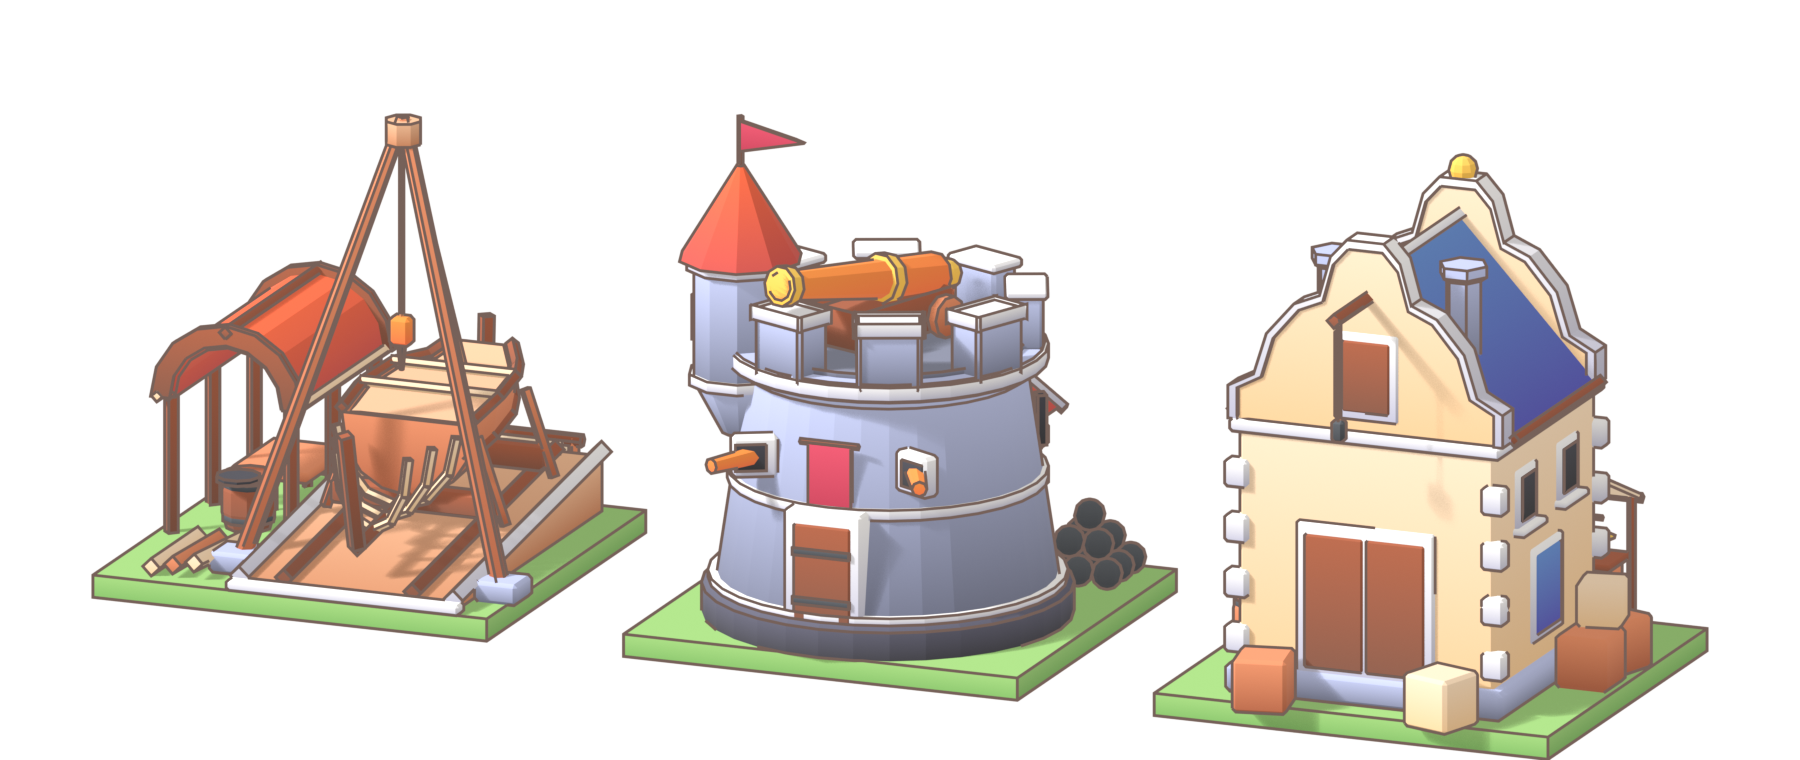
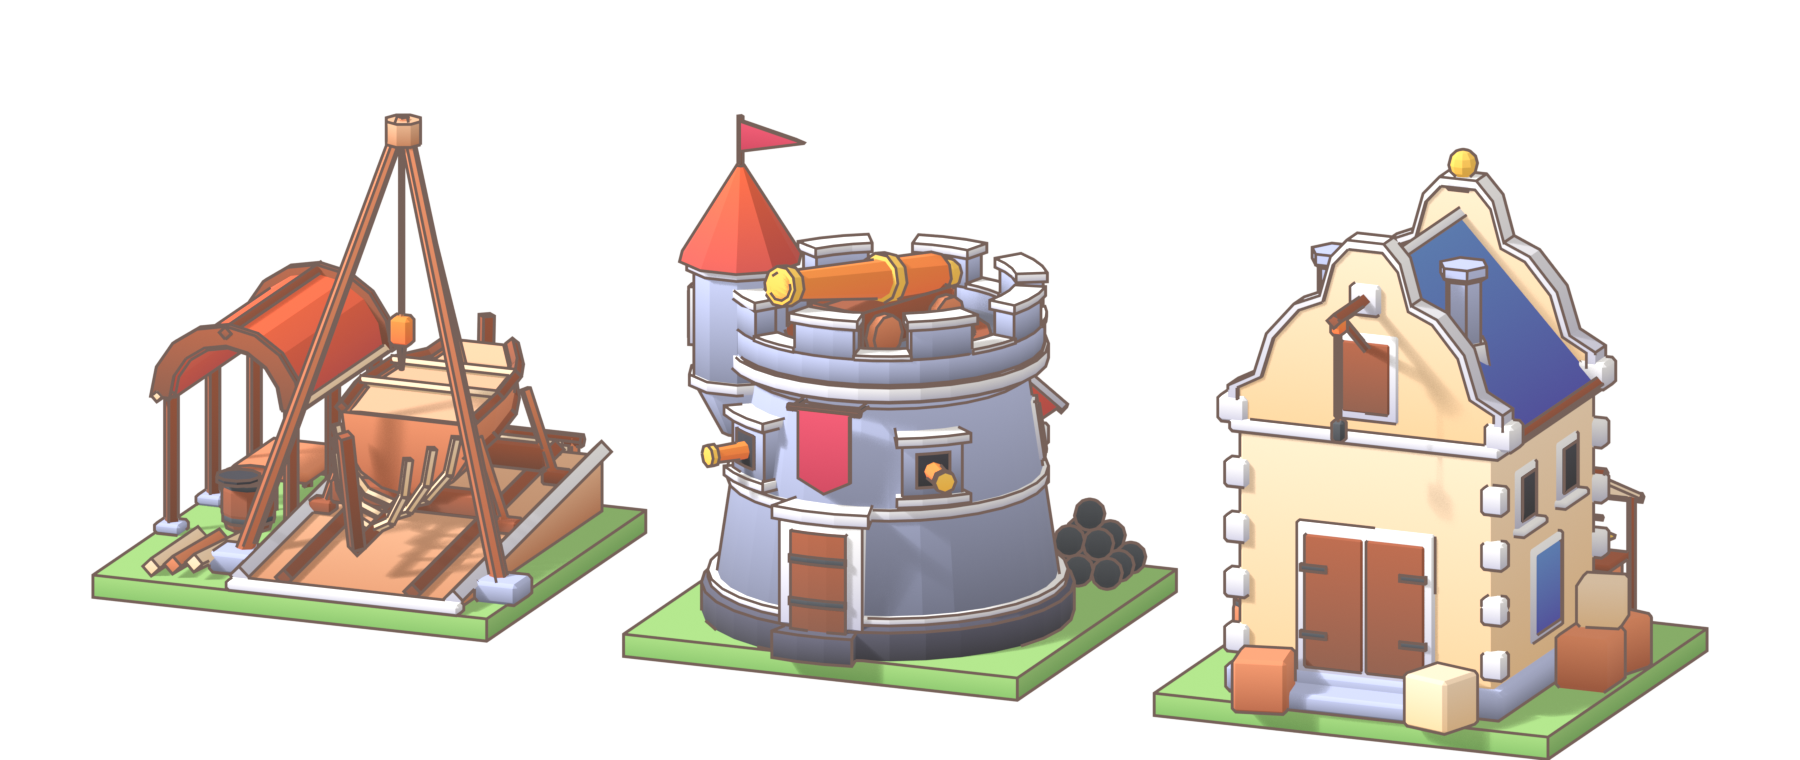
docs: rebuild the joints of the three V0.8 building blockouts so parts grow out of each other
The tower's parapet is one wall with the merlons carried up from it and an embrasure for the gun; gun ports are
casemate bays that follow the round wall, the sally port sits in a surround with a step, arrow loops and the banner
follow or hang clear of the battered wall. The tradehouse's chimneys, hoists, awning, sign and gables get collars,
seats, a ledger, pads and kneelers; the repairyard's posts, shores and back stay get pads, wedges and an anchor.

diff --git a/scripts/blender/blockout-facilities.py b/scripts/blender/blockout-facilities.py
@@ -67,6 +67,27 @@ def extrude_x(name, outline, x0, x1, mat, shade=1.0):
     return mesh_from(name, verts, faces, mat, shade)
 
 
+def arc_block(name, centre, r0, r1, a0, a1, y0, y1, mat, steps=4, shade=1.0, r0_top=None, r1_top=None):
+    """A block that follows a round wall: the solid between radii r0 and r1 (r*_top at y1, for a battered wall), from
+    angle a0 to a1 (degrees, 90 = toward +z), y0 to y1. Built into the wall rather than set against it."""
+    r0t, r1t = r0 if r0_top is None else r0_top, r1 if r1_top is None else r1_top
+    full = abs(a1 - a0) >= 360
+    count = steps if full else steps + 1
+    verts, faces = [], []
+    for k in range(count):
+        a = math.radians(a0 + (a1 - a0) * k / steps)
+        c, sn = math.cos(a), math.sin(a)
+        verts += [(centre[0] + c * r0, y0, centre[1] + sn * r0), (centre[0] + c * r1, y0, centre[1] + sn * r1), (centre[0] + c * r1t, y1, centre[1] + sn * r1t), (centre[0] + c * r0t, y1, centre[1] + sn * r0t)]
+    for k in range(steps):
+        i, j = 4 * k, 4 * ((k + 1) % count)
+        for e in range(4):
+            f = (e + 1) % 4
+            faces.append([i + e, j + e, j + f, i + f])
+    if not full:
+        faces += [[0, 1, 2, 3], [4 * steps + 3, 4 * steps + 2, 4 * steps + 1, 4 * steps]]
+    return mesh_from(name, verts, faces, mat, shade)
+
+
 def arc(cx, cy, r, a0, a1, steps):
     return [(cx + r * math.cos(math.radians(a0 + (a1 - a0) * k / steps)), cy + r * math.sin(math.radians(a0 + (a1 - a0) * k / steps))) for k in range(steps + 1)]
 
@@ -132,6 +153,7 @@ def repairyard(cx):
     for k, z in enumerate((-1.2, 0.2)):
         box(f"{n}-cradle{k}", (hx, slope(z) + 0.3, z), (1.9, 0.26, 0.24), "woodDark", bevel=0.03)
         for s in (-1, 1):
+            box(f"{n}-wedge{k}{s}", (hx + s * 1.08, slope(z) + 0.1, z), (0.26, 0.14, 0.22), "woodDark", bevel=0.02)
             beam(f"{n}-shore{k}{s}", (hx + s * 1.05, slope(z) + 0.1, z), (hx + s * 0.72, slope(z) + 1.05, z), 0.12, "wood", sides=4)
     # Trims: a pale stone curb down each edge of the slip, a dark wale along the hull, a ridge board on the shed.
     for s in (-1, 1):
@@ -145,6 +167,9 @@ def repairyard(cx):
     for s in (-1, 1):
         beam(f"{n}-leg{s}", (hx + s * 1.55, 0.0, 1.5), head, 0.2, "wood", sides=6, taper=0.7)
         box(f"{n}-foot{s}", (hx + s * 1.55, 0.12, 1.5), (0.5, 0.24, 0.5), "stone", bevel=0.04)
+    # The back stay runs to an iron ring on a stone anchor block; wedges hold the shores' feet.
+    box(f"{n}-anchor", (hx, 0.1, -2.15), (0.4, 0.2, 0.3), "stone", bevel=0.03)
+    lathe(f"{n}-anchor-ring", (hx, -2.15), [(0.1, 0.2), (0.1, 0.26)], "iron", sides=8)
     beam(f"{n}-stay", head, (hx, 0.0, -2.15), 0.06, "rope", sides=4)
     lathe(f"{n}-lash", (hx, 0.55), [(0.2, 4.72), (0.2, 4.98)], "rope", sides=8)
     beam(f"{n}-fall", (hx, 4.8, 0.6), (hx, 2.75, 0.6), 0.05, "rope", sides=4)
@@ -157,6 +182,7 @@ def repairyard(cx):
         extrude_z(f"x-{n}-rim{k}", arc(sx, 1.55, r + 0.1, 0, 180, 8) + arc(sx, 1.55, r - 0.12, 180, 0, 8), z, z + 0.1, "woodDark")
     for s in (-1, 1):
         for k, z in enumerate((-2.0, -0.8, 0.4)):
+            box(f"{n}-pad{s}{k}", (sx + s * (r - 0.08), 0.06, z), (0.3, 0.12, 0.3), "stone", bevel=0.03)
             beam(f"{n}-post{s}{k}", (sx + s * (r - 0.08), 0.0, z), (sx + s * (r - 0.08), 1.62, z), 0.16, "woodDark", sides=4)
         beam(f"{n}-plate{s}", (sx + s * (r - 0.08), 1.58, -2.1), (sx + s * (r - 0.08), 1.58, 0.5), 0.16, "wood", sides=4)
     beam(f"{n}-ridge", (sx, 1.55 + r + 0.03, -2.18), (sx, 1.55 + r + 0.03, 0.58), 0.14, "woodDark", sides=4)
@@ -181,6 +207,7 @@ def armory(cx):
     n = "arm"
     plot(n, cx)
     cz = -0.35
+    wall = lambda y: 1.86 - (y - 0.4) * 0.148  # noqa: E731  the battered wall's radius at height y
     lathe(f"{n}-plinth", (cx, cz), [(2.02, 0.0), (2.02, 0.32), (1.9, 0.42)], "basalt", sides=32)
     lathe(f"x-{n}-tower", (cx, cz), [(1.86, 0.4), (1.52, 2.7), (1.7, 2.82), (1.7, 3.02), (1.6, 3.02)], "stone", sides=32)
     lathe(f"{n}-band", (cx, cz), [(1.74, 1.5), (1.74, 1.62)], "marble", sides=32)
@@ -188,12 +215,14 @@ def armory(cx):
     # Trims: a pale cornice under the parapet and a pale rim round the gun deck.
     lathe(f"{n}-cornice", (cx, cz), [(1.74, 2.84), (1.74, 3.0)], "marble", sides=32)
     lathe(f"{n}-plinth-cap", (cx, cz), [(1.95, 0.38), (1.95, 0.46)], "marble", sides=32)
-    # Parapet with gun ports: eight merlons with light caps.
+    # Parapet: one continuous wall standing on the cornice; the merlons are the same wall carried higher (same face,
+    # same thickness), each with a pale cap; the embrasure at 110 degrees is where the gun looks out.
+    arc_block(f"x-{n}-parapet", (cx, cz), 1.44, 1.7, 0, 360, 3.0, 3.3, "stone", steps=32)
     for k in range(8):
-        a = math.radians(22.5 + 45 * k)
-        px, pz = cx + math.cos(a) * 1.5, cz + math.sin(a) * 1.5
-        box(f"{n}-merlon{k}", (px, 3.3, pz), (0.62, 0.6, 0.36), "stone", bevel=0.04, yaw=-a + math.pi / 2)
-        box(f"{n}-cap{k}", (px, 3.64, pz), (0.72, 0.1, 0.46), "marble", bevel=0.03, yaw=-a + math.pi / 2)
+        mid = 110 + 22.5 + 45 * k
+        arc_block(f"x-{n}-merlon{k}", (cx, cz), 1.44, 1.7, mid - 12, mid + 12, 3.3, 3.64, "stone", steps=3)
+        arc_block(f"x-{n}-cap{k}", (cx, cz), 1.4, 1.74, mid - 13.5, mid + 13.5, 3.64, 3.74, "marble", steps=3)
+        arc_block(f"x-{n}-sill{k}", (cx, cz), 1.42, 1.72, mid + 12, mid + 33, 3.3, 3.35, "marble", steps=3)
     # The gun: a long bronze barrel on a timber carriage, aimed out over the dock.
     aim = math.radians(200)  # toward the dock once the tower is turned round (flip_z below)
     dx, dz = math.sin(aim), math.cos(aim)
@@ -204,6 +233,7 @@ def armory(cx):
     beam(f"{n}-gun-lip", at(0.94), at(1.0), 0.44, "gold", sides=10)
     beam(f"{n}-gun-ring", at(0.3), at(0.36), 0.56, "gold", sides=10)
     ball(f"{n}-gun-knob", at(-0.08), 0.17, "gold")
+    arc_block(f"x-{n}-traverse", (cx, cz), 0.95, 1.12, 0, 360, 3.08, 3.14, "woodDark", steps=20)
     box(f"{n}-carriage", (cx + dx * 0.1, 3.36, cz + dz * 0.1), (0.7, 0.34, 1.5), "woodDark", bevel=0.05, yaw=aim)
     for s in (-1, 1):
         for k, t in enumerate((-0.45, 0.55)):
@@ -217,7 +247,9 @@ def armory(cx):
     extrude_z(f"x-{n}-door", [(cx - 0.4, 0.2), (cx + 0.4, 0.2)] + arc(cx, 1.0, 0.4, 0, 180, 6), gz + 0.76, gz + 0.84, "woodDark")
     for k, y in enumerate((0.55, 1.0)):
         box(f"{n}-strap{k}", (cx, y, gz + 0.85), (0.8, 0.09, 0.04), "iron", bevel=0.0)
+    arc_block(f"x-{n}-neck", (cx, cz), 1.5, 2.0, 62, 118, 0.3, 1.72, "stone", steps=4)
     for s in (-1, 1):
+        box(f"{n}-lamp-arm{s}", (cx + s * 0.66, 1.46, gz + 0.8), (0.08, 0.08, 0.2), "iron", bevel=0.0)
         box(f"{n}-lamp{s}", (cx + s * 0.66, 1.3, gz + 0.82), (0.16, 0.24, 0.14), "flame", bevel=0.03)
     # Gatehouse trims: a dark footing, pale corner stones, pale verges along the pediment.
     box(f"{n}-porch-foot", (cx, 0.13, gz + 0.32), (1.66, 0.26, 1.02), "basalt", bevel=0.04)
@@ -235,10 +267,11 @@ def armory(cx):
     lathe(f"{n}-turret-foot", (tx, tz), [(0.57, 2.56), (0.57, 2.68)], "marble", sides=10)
     beam(f"{n}-pole", (tx, 4.9, tz), (tx, 5.55, tz), 0.06, "woodDark", sides=4)
     extrude_z(f"{n}-pennant", [(tx, 5.5), (tx + 0.75, 5.33), (tx, 5.16)], tz - 0.02, tz + 0.02, "pennant")
-    box(f"{n}-slit", (tx - 0.5, 3.25, tz), (0.08, 0.5, 0.14), "dark", bevel=0.0)
-    for k, a in enumerate((35, 145)):
-        r = math.radians(a)
-        box(f"{n}-loop{k}", (cx + math.cos(r) * 1.7, 2.05, cz + math.sin(r) * 1.7), (0.16, 0.56, 0.1), "dark", bevel=0.0, yaw=-r + math.pi / 2)
+    arc_block(f"x-{n}-slit-frame", (tx, tz), 0.46, 0.57, 168, 192, 2.95, 3.6, "marble", steps=2)
+    arc_block(f"x-{n}-slit", (tx, tz), 0.46, 0.59, 175, 185, 3.02, 3.53, "dark", steps=1)
+    for k, a in enumerate((20, 160, 235, 305)):
+        arc_block(f"x-{n}-loop-frame{k}", (cx, cz), wall(1.75) - 0.1, wall(1.75) + 0.05, a - 4.5, a + 4.5, 1.75, 2.4, "marble", steps=1, r0_top=wall(2.4) - 0.1, r1_top=wall(2.4) + 0.05)
+        arc_block(f"x-{n}-loop{k}", (cx, cz), wall(1.82) - 0.1, wall(1.82) + 0.07, a - 1.8, a + 1.8, 1.82, 2.33, "dark", steps=1, r0_top=wall(2.33) - 0.1, r1_top=wall(2.33) + 0.07)
     # Shot and powder by the gate.
     sx, sz = cx + 1.55, cz + 2.0
     for row, (count, y) in enumerate(((3, 0.17), (2, 0.44), (1, 0.71))):
@@ -272,7 +305,14 @@ def tradehouse(cx):
     extrude_z(f"{n}-roof", [(cx - w - 0.12, base), (cx + w + 0.12, base), (cx, base + 1.72)], -0.4 - d + 0.2, -0.4 + d - 0.2, "roofBlue")
     for s in (-1, 1):
         lathe(f"x-{n}-chimney{s}", (cx + s * 0.75, -0.9), [(0.2, base + 0.5), (0.2, base + 1.55), (0.27, base + 1.6), (0.27, base + 1.72)], "stone", sides=6)
-    ball(f"{n}-finial", (cx, base + 2.22, -0.4 + d - 0.11), 0.16, "gold")
+        # Each chimney stands in a pale collar where it comes through the roof.
+        lathe(f"{n}-chimney-collar{s}", (cx + s * 0.75, -0.9), [(0.3, base + 0.62), (0.26, base + 0.86)], "marble", sides=6)
+    # The gables stand on kneeler stones at their feet, and the finial on a small pedestal on the peak.
+    for z in (-0.4 + d - 0.11, -0.4 - d + 0.11):
+        for s in (-1, 1):
+            box(f"{n}-kneeler{s}{z:.2f}", (cx + s * (w + 0.06), base + 0.1, z), (0.34, 0.3, 0.34), "marble", bevel=0.04)
+    box(f"{n}-finial-seat", (cx, base + 2.08, -0.4 + d - 0.11), (0.3, 0.14, 0.3), "marble", bevel=0.03)
+    ball(f"{n}-finial", (cx, base + 2.28, -0.4 + d - 0.11), 0.16, "gold")
     # Trims: corner stones at the back corners too, a pale ridge, dark eaves boards, framed windows on both flanks.
     for s in (-1, 1):
         for k in range(4):
@@ -287,6 +327,9 @@ def tradehouse(cx):
     beam(f"{n}-ridge", (cx, base + 1.74, -0.4 - d + 0.2), (cx, base + 1.74, -0.4 + d - 0.2), 0.16, "marble", sides=4)
     # Hoist beam at the gable's head with a crate on the hook: what a merchant's house is for.
     fz = -0.4 + d
+    # The hoist beam comes out through a pale stone seat in the gable, with a brass sheave at its end.
+    box(f"{n}-hoist-seat", (cx, base + 1.5, fz + 0.02), (0.34, 0.34, 0.14), "marble", bevel=0.03)
+    box(f"{n}-hoist-sheave", (cx, base + 1.42, fz + 0.8), (0.14, 0.2, 0.2), "brass", bevel=0.03)
     beam(f"{n}-hoist", (cx, base + 1.5, fz - 0.3), (cx, base + 1.5, fz + 0.95), 0.16, "woodDark", sides=4)
     beam(f"{n}-hoist-brace", (cx, base + 0.95, fz + 0.02), (cx, base + 1.45, fz + 0.7), 0.1, "woodDark", sides=4)
     beam(f"{n}-hoist-rope", (cx, base + 1.45, fz + 0.8), (cx, 2.5, fz + 0.8), 0.05, "rope", sides=4)
@@ -305,7 +348,10 @@ def tradehouse(cx):
         x0 = cx - w - 0.1 + k * (2 * w + 0.2) / 6
         x1 = x0 + (2 * w + 0.2) / 6
         mesh_from(f"x-{n}-awning{k}", [(x0, 1.95, fz + 0.02), (x1, 1.95, fz + 0.02), (x1, 1.5, fz + 1.05), (x0, 1.5, fz + 1.05), (x0, 1.89, fz + 0.02), (x1, 1.89, fz + 0.02), (x1, 1.44, fz + 1.05), (x0, 1.44, fz + 1.05)], [[0, 1, 2, 3], [7, 6, 5, 4], [0, 4, 5, 1], [1, 5, 6, 2], [2, 6, 7, 3], [3, 7, 4, 0]], "roofGold" if k % 2 == 0 else "canvas")
+    # The awning hangs from a ledger fixed to the wall; its poles stand on stone pads.
+    beam(f"{n}-awning-ledger", (cx - w - 0.1, 1.98, fz + 0.06), (cx + w + 0.1, 1.98, fz + 0.06), 0.12, "woodDark", sides=4)
     for s in (-1, 1):
+        box(f"{n}-awning-pad{s}", (cx + s * (w + 0.02), 0.07, fz + 1.0), (0.26, 0.14, 0.26), "stone", bevel=0.03)
         beam(f"{n}-awning-pole{s}", (cx + s * (w + 0.02), 0.0, fz + 1.0), (cx + s * (w + 0.02), 1.48, fz + 1.0), 0.09, "woodDark", sides=4)
     beam(f"{n}-valance", (cx - w - 0.12, 1.45, fz + 1.06), (cx + w + 0.12, 1.45, fz + 1.06), 0.1, "woodDark", sides=4)
     # Goods out front: crates, spice sacks, cloth, and the scales on the counter.
@@ -325,6 +371,10 @@ def tradehouse(cx):
     barrel(f"{n}-cask0", (cx - 1.95, 0.0, -0.1), "wood")
     barrel(f"{n}-cask1", (cx - 1.95, 0.0, 0.6), "wood")
     # Hanging sign: a gold coin on an iron bracket at the corner.
+    box(f"{n}-bracket-plate", (cx - w - 0.03, 2.62, fz + 0.05), (0.06, 0.5, 0.2), "iron", bevel=0.0)
+    beam(f"{n}-bracket-stay", (cx - w, 2.42, fz + 0.05), (cx - w - 0.55, 2.74, fz + 0.05), 0.05, "iron", sides=4)
+    for dx in (-0.36, -0.64):
+        beam(f"{n}-sign-chain{dx}", (cx - w + dx, 2.74, fz + 0.05), (cx - w + dx, 2.56, fz + 0.05), 0.04, "iron", sides=4)
     beam(f"{n}-bracket", (cx - w, 2.75, fz + 0.05), (cx - w - 0.75, 2.75, fz + 0.05), 0.07, "iron", sides=4)
     beam(f"{n}-sign", (cx - w - 0.5, 2.3, fz), (cx - w - 0.5, 2.3, fz + 0.1), 0.6, "gold", sides=12)
     beam(f"{n}-sign-rim", (cx - w - 0.5, 2.3, fz - 0.02), (cx - w - 0.5, 2.3, fz + 0.01), 0.7, "woodDark", sides=12)
@@ -348,21 +398,44 @@ def flip_z(prefix, cx):
 def dock_side(cx):
     """What the dock side shows once the tower and the house are turned round: the armory's sally port and the
     tradehouse's cargo doors with a second hoist."""
-    box("arm-port-frame", (cx, 0.95, 2.1), (0.9, 1.3, 0.3), "marble", bevel=0.03)
-    box("arm-port", (cx, 0.9, 2.2), (0.66, 1.1, 0.16), "woodDark", bevel=0.02)
-    for k, y in enumerate((0.6, 1.15)):
-        box(f"arm-port-strap{k}", (cx, y, 2.29), (0.66, 0.08, 0.03), "iron", bevel=0.0)
-    for k, sx in enumerate((-0.95, 0.95)):
-        box(f"arm-gunport{k}", (cx + sx, 2.05, 1.86), (0.5, 0.46, 0.22), "marble", bevel=0.04, yaw=-sx * 0.5)
-        box(f"arm-gunport-hole{k}", (cx + sx * 1.02, 2.05, 1.93), (0.34, 0.3, 0.14), "dark", bevel=0.0, yaw=-sx * 0.5)
-        beam(f"arm-wallgun{k}", (cx + sx * 0.95, 2.05, 1.8), (cx + sx * 1.28, 2.05, 2.45), 0.22, "brass", sides=8, taper=0.75)
-    box("arm-banner", (cx, 1.95, 2.02), (0.5, 0.7, 0.05), "pennant", bevel=0.0)
-    beam("arm-banner-rod", (cx - 0.34, 2.32, 2.04), (cx + 0.34, 2.32, 2.04), 0.06, "woodDark", sides=4)
+    c = (cx, 0.35)
+    wall = lambda y: 1.86 - (y - 0.4) * 0.148  # noqa: E731
+    # Sally port: a stone surround standing proud of the wall from the plinth up, an arched head, the door set back in it.
+    arc_block("x-arm-port-frame", c, 1.6, 2.0, 76, 104, 0.3, 1.5, "marble", steps=3)
+    arc_block("x-arm-port-head", c, 1.6, 2.04, 74, 106, 1.5, 1.64, "marble", steps=3)
+    arc_block("x-arm-port", c, 1.95, 2.05, 81, 99, 0.3, 1.4, "woodDark", steps=3)
+    for k, y in enumerate((0.62, 1.1)):
+        arc_block(f"x-arm-port-strap{k}", c, 2.03, 2.08, 81, 99, y - 0.04, y + 0.04, "iron", steps=3)
+    arc_block("x-arm-port-step", c, 1.9, 2.25, 78, 102, 0.0, 0.3, "basalt", steps=3)
+    # Gun ports: a casemate bay that follows the wall, with a hood above and a sill below; the gun looks out along the
+    # tower's radius through the dark opening.
+    for k, a in enumerate((52, 128)):
+        r = wall(2.05)
+        arc_block(f"x-arm-bay{k}", c, r - 0.2, r + 0.16, a - 11, a + 11, 1.78, 2.36, "stone", steps=3)
+        arc_block(f"x-arm-bay-hood{k}", c, r - 0.2, r + 0.24, a - 13, a + 13, 2.36, 2.46, "marble", steps=3)
+        arc_block(f"x-arm-bay-sill{k}", c, r - 0.2, r + 0.24, a - 13, a + 13, 1.68, 1.78, "marble", steps=3)
+        arc_block(f"x-arm-bay-hole{k}", c, r - 0.2, r + 0.18, a - 6, a + 6, 1.88, 2.26, "dark", steps=2)
+        ra = math.radians(a)
+        at = lambda d: (cx + math.cos(ra) * d, 2.06, 0.35 + math.sin(ra) * d)  # noqa: E731
+        beam(f"arm-wallgun{k}", at(r - 0.1), at(r + 0.62), 0.22, "brass", sides=8, taper=0.8)
+        beam(f"arm-wallgun-lip{k}", at(r + 0.56), at(r + 0.64), 0.24, "gold", sides=8)
+    # The banner hangs plumb from a rod on two iron brackets under the cornice, clear of the leaning wall.
+    for sx in (-0.36, 0.36):
+        beam(f"arm-banner-arm{sx}", (cx + sx, 2.74, 0.35 + 1.5), (cx + sx, 2.74, 0.35 + 1.86), 0.06, "iron", sides=4)
+    beam("arm-banner-rod", (cx - 0.42, 2.74, 0.35 + 1.84), (cx + 0.42, 2.74, 0.35 + 1.84), 0.07, "woodDark", sides=6)
+    extrude_z("arm-banner", [(cx - 0.3, 2.72), (cx + 0.3, 2.72), (cx + 0.3, 1.95), (cx, 1.8), (cx - 0.3, 1.95)], 0.35 + 1.82, 0.35 + 1.86, "pennant")
     tx, fz, base = cx + GAP, 1.85, 3.07
     box("trade-cargo-frame", (tx, 1.15, fz + 0.02), (1.6, 1.7, 0.08), "marble", bevel=0.02)
+    box("trade-cargo-step", (tx, 0.1, fz + 0.3), (1.8, 0.2, 0.5), "stone", bevel=0.04)
+    for s in (-1, 1):
+        for k, y in enumerate((0.75, 1.5)):
+            box(f"trade-cargo-hinge{s}{k}", (tx + s * 0.58, y, fz + 0.1), (0.3, 0.07, 0.03), "iron", bevel=0.0)
     for s in (-1, 1):
         box(f"trade-cargo-door{s}", (tx + s * 0.36, 1.12, fz + 0.06), (0.68, 1.5, 0.06), "woodDark", bevel=0.02)
     beam("trade-hoist2", (tx, base + 1.5, fz - 0.3), (tx, base + 1.5, fz + 0.95), 0.16, "woodDark", sides=4)
+    box("trade-hoist2-seat", (tx, base + 1.5, fz + 0.02), (0.34, 0.34, 0.14), "marble", bevel=0.03)
+    beam("trade-hoist2-brace", (tx, base + 0.95, fz + 0.02), (tx, base + 1.45, fz + 0.7), 0.1, "woodDark", sides=4)
+    box("trade-hoist2-sheave", (tx, base + 1.42, fz + 0.8), (0.14, 0.2, 0.2), "brass", bevel=0.03)
     beam("trade-hoist2-rope", (tx, base + 1.45, fz + 0.8), (tx, 3.4, fz + 0.8), 0.05, "rope", sides=4)
     box("trade-hoist2-hook", (tx, 3.3, fz + 0.8), (0.14, 0.24, 0.14), "iron", bevel=0.03)
     box("trade-loft2-frame", (tx, base + 0.62, fz - 0.01), (0.74, 0.98, 0.08), "marble", bevel=0.02)
